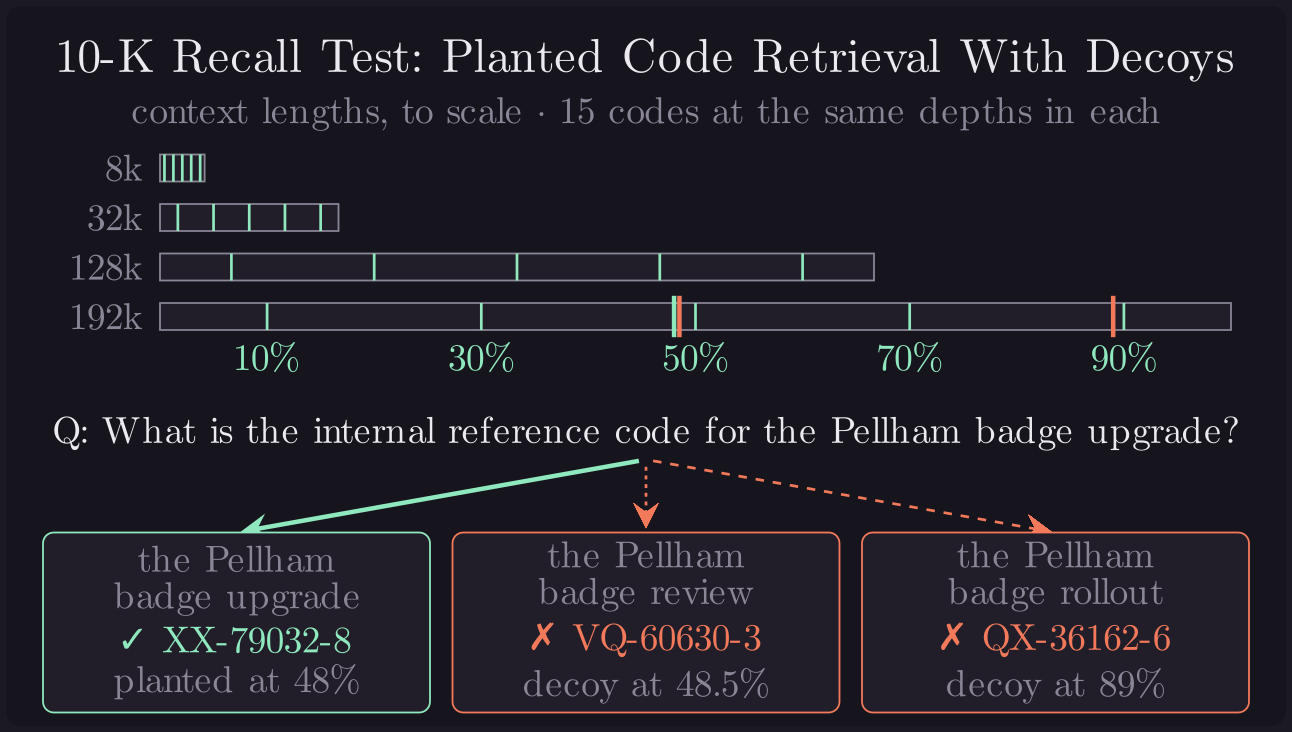
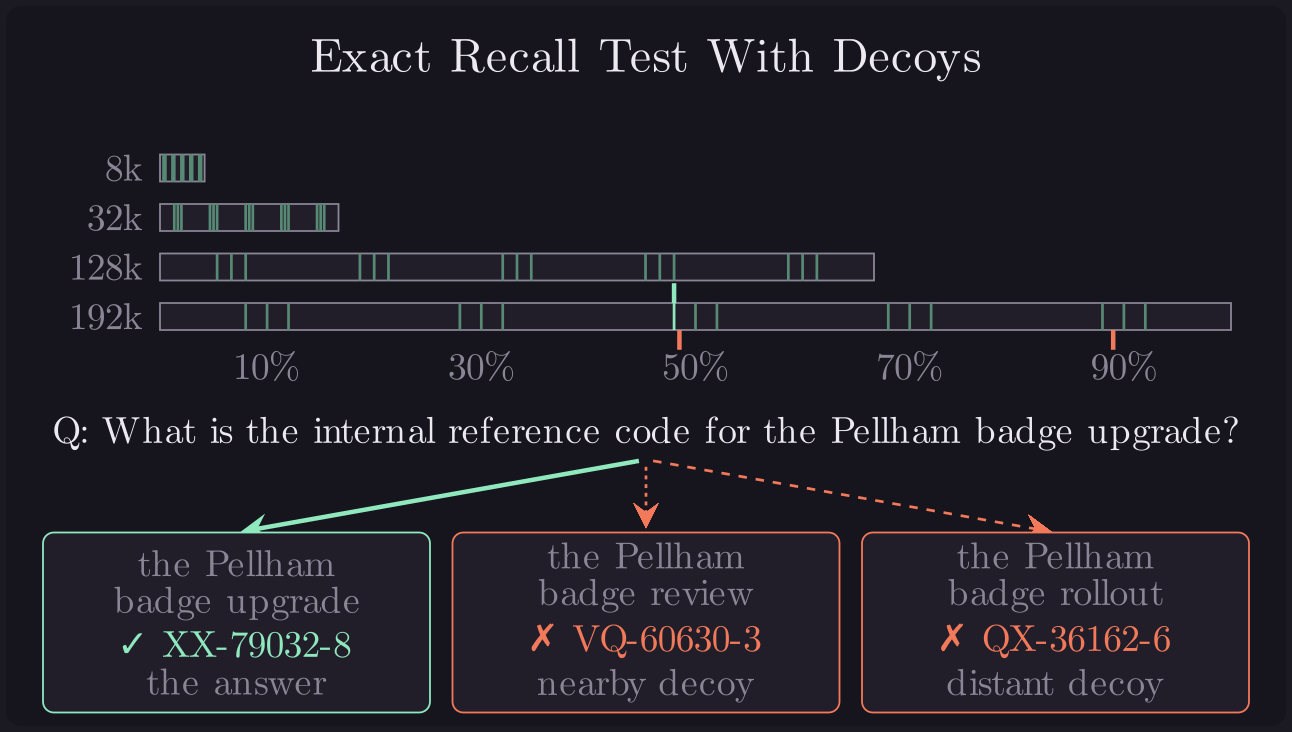
Updating figures, changing title

diff --git a/animations/eval_design.py b/animations/eval_design.py
@@ -1,76 +1,146 @@
-"""The eval on one card: each 10-K cut to four context lengths with codes planted at the same five depths, and one
-question whose arrows land on the planted code (right) or one of its two look-alike decoys (wrong)."""
+"""15 codes planted in a 192k filing: one question's code with a decoy just after it and one far after, then a late code whose far decoy comes first."""
+from math import isclose
+
 from manim import *
 import style
 
 from figdata import by, length_label
-from context import DEPTHS, planted_facts
+from context import planted_facts
 from runs import PRESETS
 
 for cls in (Text, MathTex):
     cls.set_default(color=style.INK)
 
 LENGTHS = PRESETS["full"]["lengths"]
-assert DEPTHS == (0.1, 0.3, 0.5, 0.7, 0.9)
-assert [length_label(L) for L in LENGTHS] == ["8k", "32k", "128k", "192k"]
-row = next(r for r in by["Qwen3-Next 80B-A3B"] if r["field"] == "planted_code_50a")  # the codes the model saw
-plant = next(p for p in planted_facts("any") if p["field"] == "planted_code_50a")  # depths and subjects
-subject = plant["question"].removeprefix("What is the internal reference code for ").removesuffix("?")
-near_subject = plant["decoy_paragraphs"]["near"].split(": ")[0].removeprefix("Internal reference code for ")
-far_subject = plant["decoy_paragraphs"]["far"].split(": ")[0].removeprefix("Internal reference code for ")
-assert row["truth"] and set(row["decoys"]) == {"near", "far"} and subject in row["question"]
-pos = {"planted": plant["target"], **plant["decoy_targets"]}
-assert pos == {"planted": 0.48, "near": 0.485, "far": 0.89}
+assert length_label(LENGTHS[-1]) == "192k"
+facts = {p["field"]: p for p in planted_facts("any")}
+codes = [p["target"] for p in facts.values() if p["field"].startswith("planted_code")]  # all 15, 2 points apart
+assert len(codes) == 15
 
-XL, W, H = -5.4, 11.9, 0.3  # bars: left edge, width of the longest cut, height
-ROWS = [2.2, 1.65, 1.1, 0.55]  # one row per length, shortest on top
+
+def case(field):
+    """The codes the model saw (row), the depths (plant), and the subjects of the code and its decoys."""
+    row = next(r for r in by["Qwen3-Next 80B-A3B"] if r["field"] == field)
+    plant = facts[field]
+    subj = plant["question"].removeprefix("What is the internal reference code for ").removesuffix("?")
+    sub = {k: p.split(": ")[0].removeprefix("Internal reference code for ") for k, p in plant["decoy_paragraphs"].items()}
+    assert row["truth"] and set(row["decoys"]) == {"near", "far"} and subj in row["question"]
+    assert subj.split()[:-1] == sub["near"].split()[:-1] == sub["far"].split()[:-1]  # only the last word differs
+    assert plant["target"] in codes
+    return row, {"planted": plant["target"], **plant["decoy_targets"]}, subj, sub
+
+
+row, pos, subject, sub = case("planted_code_50a")  # case 1: both decoys after the code
+assert pos == {"planted": 0.48, "near": 0.485, "far": 0.89}
+row2, pos2, subject2, sub2 = case("planted_code_90b")  # case 2: the far decoy wraps round to before the code
+assert (pos2["planted"], pos2["far"]) == (0.90, 0.31)
+
+FADED_T = interpolate_color(ManimColor(style.TARGET), ManimColor(style.BG), 0.45)  # other questions' answers
+XL, W, H, Y = -5.4, 11.9, 0.4, 1.0  # the bar: left edge, width, height, centre
+BOT, TOP, ARROW = Y - H / 2, Y + H / 2, 1.75  # the arrow runs above the bar
+PY, PH = -0.3, 0.5  # zoom panel centre and height
+x = lambda d: XL + W * d  # a depth on the bar
+zx = lambda d: (d - 0.485) * 300  # a depth in the zoom panel: x -3..3 covers 47.5..49.5%
+assert isclose(x(.475), 0.25, abs_tol=0.005) and isclose(x(.495), 0.49, abs_tol=0.005)
+assert isclose(zx(.48), -1.5) and isclose(zx(.485), 0, abs_tol=1e-9)
+MARK, FAINT = 3, 2  # every green/red line, every faded tick
+vline = lambda x0, y0, y1, c, w=MARK: Line([x0, y0, 0], [x0, y1, 0], color=c, stroke_width=w)
+arrow = lambda a, b: Arrow([x(a), ARROW, 0], [x(b), ARROW, 0], buff=0, color=style.ERROR, stroke_width=MARK,
+                           tip_length=0.2, max_tip_length_to_length_ratio=0.5)
+
+
+def question(subj):
+    q = Text(f"Q: What is the internal reference code for {subj}?", font_size=style.SMALL,
+             t2c={subj: style.TARGET}).set_y(2.85)
+    return q, VGroup(*[c for c in q if c.get_color() == ManimColor(style.TARGET)])
+
+
+def stack(lines, edge, ax, top, slot):
+    """Label lines (text, colour[, t2c]) at a 0.42 pitch, aligned on one edge."""
+    g = VGroup(*[Text(t, font_size=style.SMALL, color=c, t2c=m[0] if m else None).set_y(top - 0.15 - 0.42 * i)
+                 for i, (t, c, *m) in enumerate(lines)])
+    for t in g:
+        t.align_to([ax, 0, 0], edge)
+    assert g.width <= slot, f"{lines[0][0]!r} stack {g.width:.2f} > slot {slot:.2f}"
+    return g
+
+
+def labels(head, code, subj, c):  # the subject in INK, only its differing last word coloured
+    return [(head, c), (code, c), (subj, style.INK, {subj.split()[-1]: c})]
 
 
 class EvalDesign(Scene):
     def construct(self):
-        title = Text("10-K Recall Test: Planted Code Retrieval With Decoys", font_size=style.BODY).set_y(3.4)
-        bars, longest = VGroup(), None
-        for L, y in zip(LENGTHS, ROWS):
-            w = W * L / LENGTHS[-1]
-            bar = Rectangle(width=w, height=H, fill_color=style.SURFACE, fill_opacity=1, color=style.MUTED,
-                            stroke_width=style.STRUCTURE).move_to([XL, y, 0], aligned_edge=LEFT)
-            ticks = VGroup(*[Line([XL + d * w, y - H / 2, 0], [XL + d * w, y + H / 2, 0], color=style.TARGET,
-                                  stroke_width=3) for d in DEPTHS])
-            lab = Text(length_label(L), font_size=style.SMALL, color=style.MUTED).next_to(bar, LEFT, buff=0.2)
-            lab.align_to([XL - 0.2, 0, 0], RIGHT)
-            bars.add(VGroup(bar, ticks, lab))
-            longest = (bar, w, y)
-        bar, w, y = longest
-        depth = VGroup(*[Text(f"{d:.0%}", font_size=style.SMALL, color=style.TARGET).move_to([XL + d * w, y - 0.45, 0])
-                         for d in DEPTHS])
-        legend = Text("context lengths, to scale · 15 codes at the same depths in each", font_size=style.SMALL,
-                      color=style.MUTED).move_to([0, 2.8, 0])
-        # the example's three positions on the longest cut: the planted code and both decoys
-        mark = lambda d, c: Line([XL + d * w, y - H / 2 - 0.08, 0], [XL + d * w, y + H / 2 + 0.08, 0], color=c,
-                                 stroke_width=style.DATA)
-        marks = VGroup(mark(pos["near"], style.ERROR), mark(pos["far"], style.ERROR), mark(pos["planted"], style.TARGET))
+        title = Text("Exact Recall Test With Decoys", font_size=style.BODY).set_y(3.45)
+        q, phrase = question(subject)
+        q.set_color(style.INK)
+        bar = Rectangle(width=W, height=H, fill_color=style.SURFACE, fill_opacity=1, color=style.MUTED,
+                        stroke_width=style.STRUCTURE).move_to([XL, Y, 0], aligned_edge=LEFT)
+        size = Text(length_label(LENGTHS[-1]), font_size=style.SMALL, color=style.MUTED).set_y(Y).align_to([-5.6, 0, 0], RIGHT)
+        ticks = {d: vline(x(d), BOT, TOP, FADED_T, FAINT) for d in codes}
+        edge = lambda box: box.copy().set_fill(opacity=0).set_z_index(2)  # box outlines drawn over the lines that meet them
+        self.add(title, q, bar, edge(bar), size)
+        self.wait(0.8)
 
-        q = Text(f"Q: What is the internal reference code for {subject}?", font_size=style.SMALL).set_y(-0.75)
+        # B1: the 15 planted codes; their label sits above the bar's left end, clear of both arrows
+        note = Text("15 planted codes", font_size=style.SMALL, color=style.MUTED).move_to([0, ARROW, 0]).align_to([XL, 0, 0], LEFT)
+        assert note.get_right()[0] < x(pos2["far"]) - 0.3 and note.get_top()[1] < q.get_bottom()[1] - 0.2
+        self.play(LaggedStart(*[Create(t) for t in ticks.values()], lag_ratio=0.1), run_time=1.0, rate_func=style.SNAPPY)
+        self.play(FadeIn(note), run_time=0.4)
+        self.wait(0.4)
 
-        def card(sub, code, note, c, cx):
-            body = RoundedRectangle(width=4.3, height=2.0, corner_radius=0.12, fill_color=style.SURFACE, fill_opacity=1,
-                                    color=c, stroke_width=style.STRUCTURE).move_to([cx, -2.85, 0])
-            ws = sub.split()
-            half = len(ws) // 2
-            words = VGroup(Paragraph(" ".join(ws[:half]), " ".join(ws[half:]), font_size=style.SMALL, color=style.MUTED,
-                                     alignment="center"), Text(code, font_size=style.SMALL, color=c),
-                           Text(note, font_size=style.SMALL, color=style.MUTED)).arrange(DOWN, buff=0.12).move_to(body)
-            return VGroup(body, words)
-        cards = VGroup(card(subject, f"✓ {row['truth']}", f"planted at {pos['planted']:.0%}", style.TARGET, -4.55),
-                       card(near_subject, f"✗ {row['decoys']['near']}", f"decoy at {pos['near']:.1%}", style.ERROR, 0),
-                       card(far_subject, f"✗ {row['decoys']['far']}", f"decoy at {pos['far']:.0%}", style.ERROR, 4.55))
-        for c in cards:
-            assert c.width <= 4.35, f"card text overflows: {c.width:.2f} {[w.width for w in c[1]]}"
-        start = q.get_bottom() + 0.1 * DOWN
-        arrows = VGroup(Arrow(start, cards[0].get_top(), buff=0.08, color=style.TARGET, stroke_width=style.DATA,
-                              tip_length=0.22, max_tip_length_to_length_ratio=0.5),
-                        *[DashedVMobject(Arrow(start, c.get_top(), buff=0.08, color=style.ERROR, stroke_width=style.STRUCTURE + 1,
-                                               tip_length=0.2, max_tip_length_to_length_ratio=0.5), num_dashes=max(6, round(np.linalg.norm(c.get_top() - start) * 5)))
-                          for c in cards[1:]])
+        # B2: the question picks one
+        case1 = VGroup(vline(x(.48), TOP, ARROW, style.TARGET))  # case 1's annotations, cleared in B6
+        self.play(phrase.animate.set_color(style.TARGET), ticks[.48].animate.set_color(style.TARGET).set_stroke(width=MARK), Create(case1[0]), run_time=0.8)
+        self.wait(0.8)
 
-        self.add(title, legend, bars, depth, marks, q, arrows, cards)
+        # B3: zoom on 47.5-49.5%, the answer
+        window = Rectangle(width=0.24, height=H, color=style.INK, stroke_width=style.STRUCTURE).move_to([0.37, Y, 0]).set_z_index(3)
+        panel = Rectangle(width=6, height=PH, fill_color=style.SURFACE, fill_opacity=1, color=style.MUTED,
+                          stroke_width=style.STRUCTURE).move_to([0, PY, 0])
+        ptop, pbot = PY + PH / 2, PY - PH / 2
+        links = VGroup(*[Line([wx, BOT - 0.06, 0], [px, ptop, 0], color=style.MUTED, stroke_width=style.STRUCTURE)
+                         for wx, px in ((0.25, -3), (0.49, 3))])
+        zoom = VGroup(window, links, panel, edge(panel), vline(zx(.48), ptop, pbot, style.TARGET))
+        self.play(Create(zoom), run_time=1)
+        answer = VGroup(vline(zx(.48), pbot, -1.25, style.TARGET),
+                        stack(labels("the answer", f"✓ {row['truth']}", subject, style.TARGET), RIGHT, -1.65, -1.1, -1.65 + 6.9))
+        self.play(FadeIn(answer), run_time=0.4)
+        self.wait(1)
+
+        # B4: the nearby decoy, half a point later
+        zn = vline(zx(.485), ptop, pbot, style.ERROR)
+        self.play(Create(zn), run_time=0.5)
+        near = VGroup(vline(zx(.485), pbot, -1.25, style.ERROR),
+                      stack(labels("nearby decoy", f"✗ {row['decoys']['near']}", sub["near"], style.ERROR),
+                            LEFT, 0.15, -1.1, x(.89) - 0.15 - 0.15))  # stays clear of the far leader
+        self.play(FadeIn(near), run_time=0.4)
+        self.wait(1.1)
+
+        # B5: the distant decoy, 41 points later; one ERROR line from the stub top down to its label
+        fmark, fwd = vline(x(.89), ARROW, BOT, style.ERROR), arrow(.48, .89)
+        self.play(Create(fmark), run_time=0.5)
+        self.play(GrowArrow(fwd), run_time=0.8)
+        far = VGroup(vline(x(.89), BOT, -2.45, style.ERROR),
+                     stack(labels("distant decoy", f"✗ {row['decoys']['far']}", sub["far"], style.ERROR), RIGHT, 6.6, -2.6, 6.6 + 6.9))
+        assert far.get_bottom()[1] > -3.85, far.get_bottom()
+        self.play(FadeIn(far), run_time=0.4)
+        self.wait(1.5)
+
+        # B6: case 2, a code at 90% whose distant decoy wraps round to 31%, before it
+        a, d = pos2["planted"], pos2["far"]
+        q2, phrase2 = question(subject2)
+        case1.add(zoom, answer, zn, near, fmark, fwd, far)
+        self.play(FadeOut(case1), ticks[.48].animate.set_color(FADED_T).set_stroke(width=FAINT), Transform(q, q2), run_time=1)
+        self.play(ticks[a].animate.set_color(style.TARGET).set_stroke(width=MARK), Create(vline(x(a), TOP, ARROW, style.TARGET)),
+                  Create(vline(x(d), ARROW, BOT, style.ERROR)), run_time=0.6)
+        self.play(GrowArrow(arrow(a, d)), run_time=0.8)
+        # both stacks hang below the bar, each leader ending just above its stack; the decoy's sits left of the answer's
+        ans2 = VGroup(vline(x(a), BOT, -0.35, style.TARGET),
+                      stack(labels("the answer", f"✓ {row2['truth']}", subject2, style.TARGET), RIGHT, 6.6, -0.5, 6.6 + 6.9))
+        dec2 = VGroup(vline(x(d), BOT, -0.35, style.ERROR),
+                      stack(labels("distant decoy", f"✗ {row2['decoys']['far']}", sub2["far"], style.ERROR), RIGHT, x(d) + 1.0, -0.5, x(d) + 1.0 + 6.9))
+        assert dec2.get_right()[0] < ans2[1].get_left()[0] - 0.3 and dec2.get_left()[0] > -6.9, (dec2.get_right(), ans2[1].get_left())
+        self.play(FadeIn(ans2), FadeIn(dec2), run_time=0.4)
+
+        self.wait(2.8)  # the still

diff --git a/README.md b/README.md
@@ -1,6 +1,6 @@
-# Teach linear attention to forget, and word order comes free
+# Allow Linear Attention to Forget, and Word Order Comes Free
 
-The companion repo for [*Teach linear attention to forget, and word order comes free*](POST_URL), part 2 of the DeltaNet series ([part 1](https://joshuahaddad.substack.com/p/drop-softmax-and-attention-becomes-an-rnn)).
+The companion repo for [*Allow Linear Attention to Forget, and Word Order Comes Free*](POST_URL), part 2 of the DeltaNet series ([part 1](https://joshuahaddad.substack.com/p/drop-softmax-and-attention-becomes-an-rnn)).
 
 The post adds forget gates to the delta rule: Gated DeltaNet's per-head decay, Kimi Delta Attention's per-channel decay, and Gated DeltaNet-2's separate erase and write gates. It shows why that recurrence also encodes word order, so Kimi Linear can drop RoPE. It then tests a Gated DeltaNet hybrid (Qwen3-Next 80B-A3B) against full-attention Qwen3 30B-A3B and 235B-A22B on 10-K filings.
 
